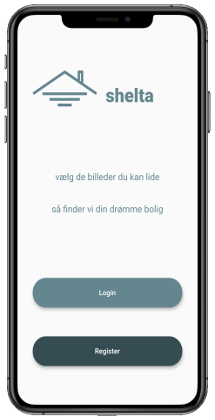
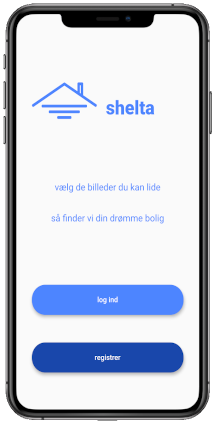
New color scheme

diff --git a/assets/css/styles.css b/assets/css/styles.css
@@ -5,22 +5,20 @@
  * Twitter: @3rdwave_themes
  * Website: https://themes.3rdwavemedia.com/
 
-
-
-:root {
-  --white: #ffffff;
-  --primary: #4D85FF;
-  --dark: #1947AB;
-  --light: #727374;
-  --text: #494d55;
-}
-*/
-
 :root {
   --white: #ffffff;
   --primary: #64868E;
   --dark: #354d52;
   --light: #8C9C9F;
+  --text: #494d55;
+}
+
+*/
+:root {
+  --white: #ffffff;
+  --primary: #4D85FF;
+  --dark: #1947AB;
+  --light: #727374;
   --text: #494d55;
 }
 
@@ -97,8 +95,8 @@ a:focus {
 }
 
 .btn-inverse {
-  background: rgba(0, 0, 0, 0.4);
-  border: 1px solid transparent;
+  background: var(--dark);
+  border: 1px solid var(--dark);
   color: var(--white);
 }
 
@@ -353,7 +351,7 @@ a:focus {
 
 /* ====== Footer ====== */
 .footer {
-  background: #26282c;
+  background: var(--dark);
   color: rgba(255, 255, 255, 0.6);
   padding: 15px 0;
 }
@@ -429,6 +427,7 @@ a:focus {
 }
 
 .hero-carousel .carousel-inner .heading {
+  color: var(--primary);
   font-size: 30px;
   line-height: 1.4;
   font-weight: bold;
@@ -454,6 +453,7 @@ a:focus {
   margin-bottom: 15px;
   font-size: 36px;
   font-weight: 300;
+  color: var(--dark);
 }
 
 .about-section .intro {
@@ -560,7 +560,7 @@ a:focus {
 
 /* ======= Testimonials Section ======= */
 .testimonials-section {
-  background: var(--light) url("../images/map.png") no-repeat center center;
+  background: var(--primary) url("../images/map.png") no-repeat center center;
   -webkit-background-size: cover;
   -moz-background-size: cover;
   -o-background-size: cover;

diff --git a/index.html b/index.html
@@ -397,7 +397,7 @@
                             placeholder="email address">
                     </div>
                     <div class="col-md-2">
-                        <input type="submit" class="btn btn-cta btn-primary" value="Get in touch">
+                        <input type="submit" class="btn btn-cta btn-inverse" value="Get in touch">
                     </div>
                     <div class="col-md-2"></div>
                 </div>
